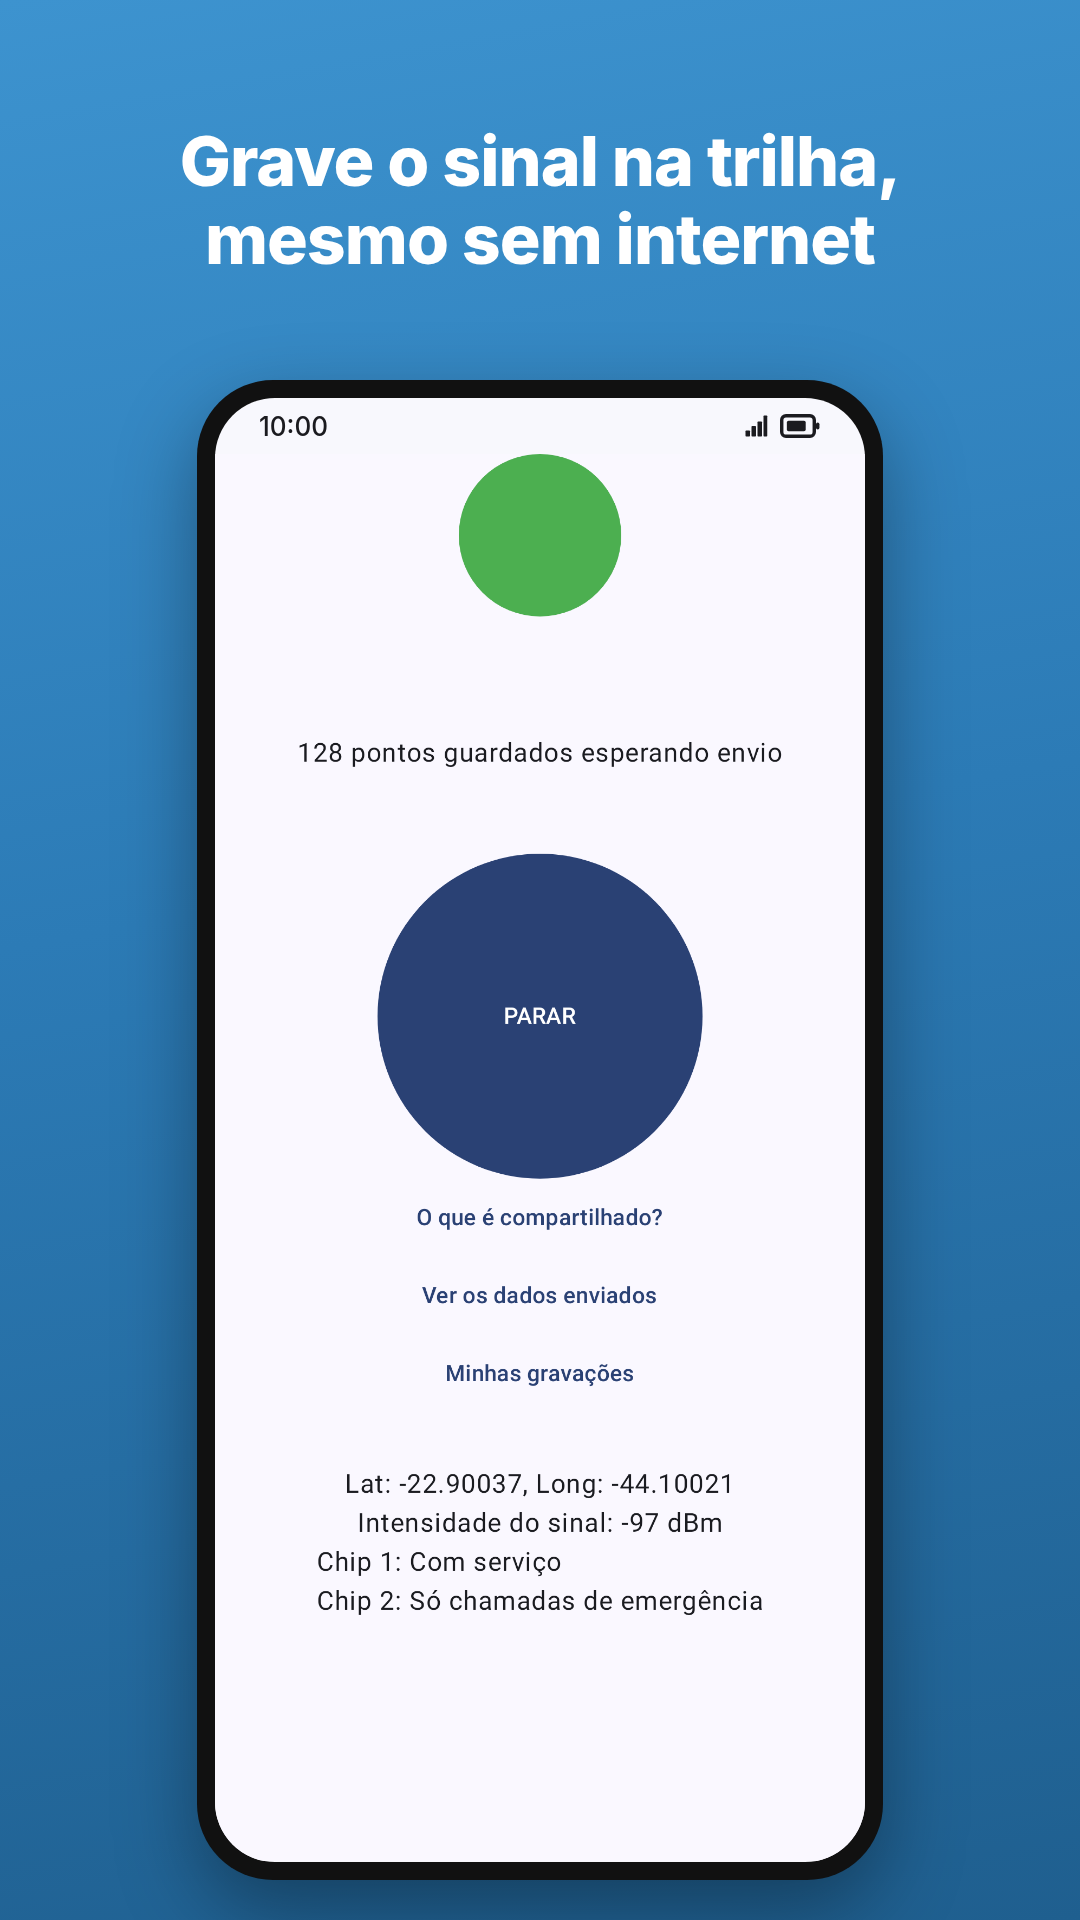
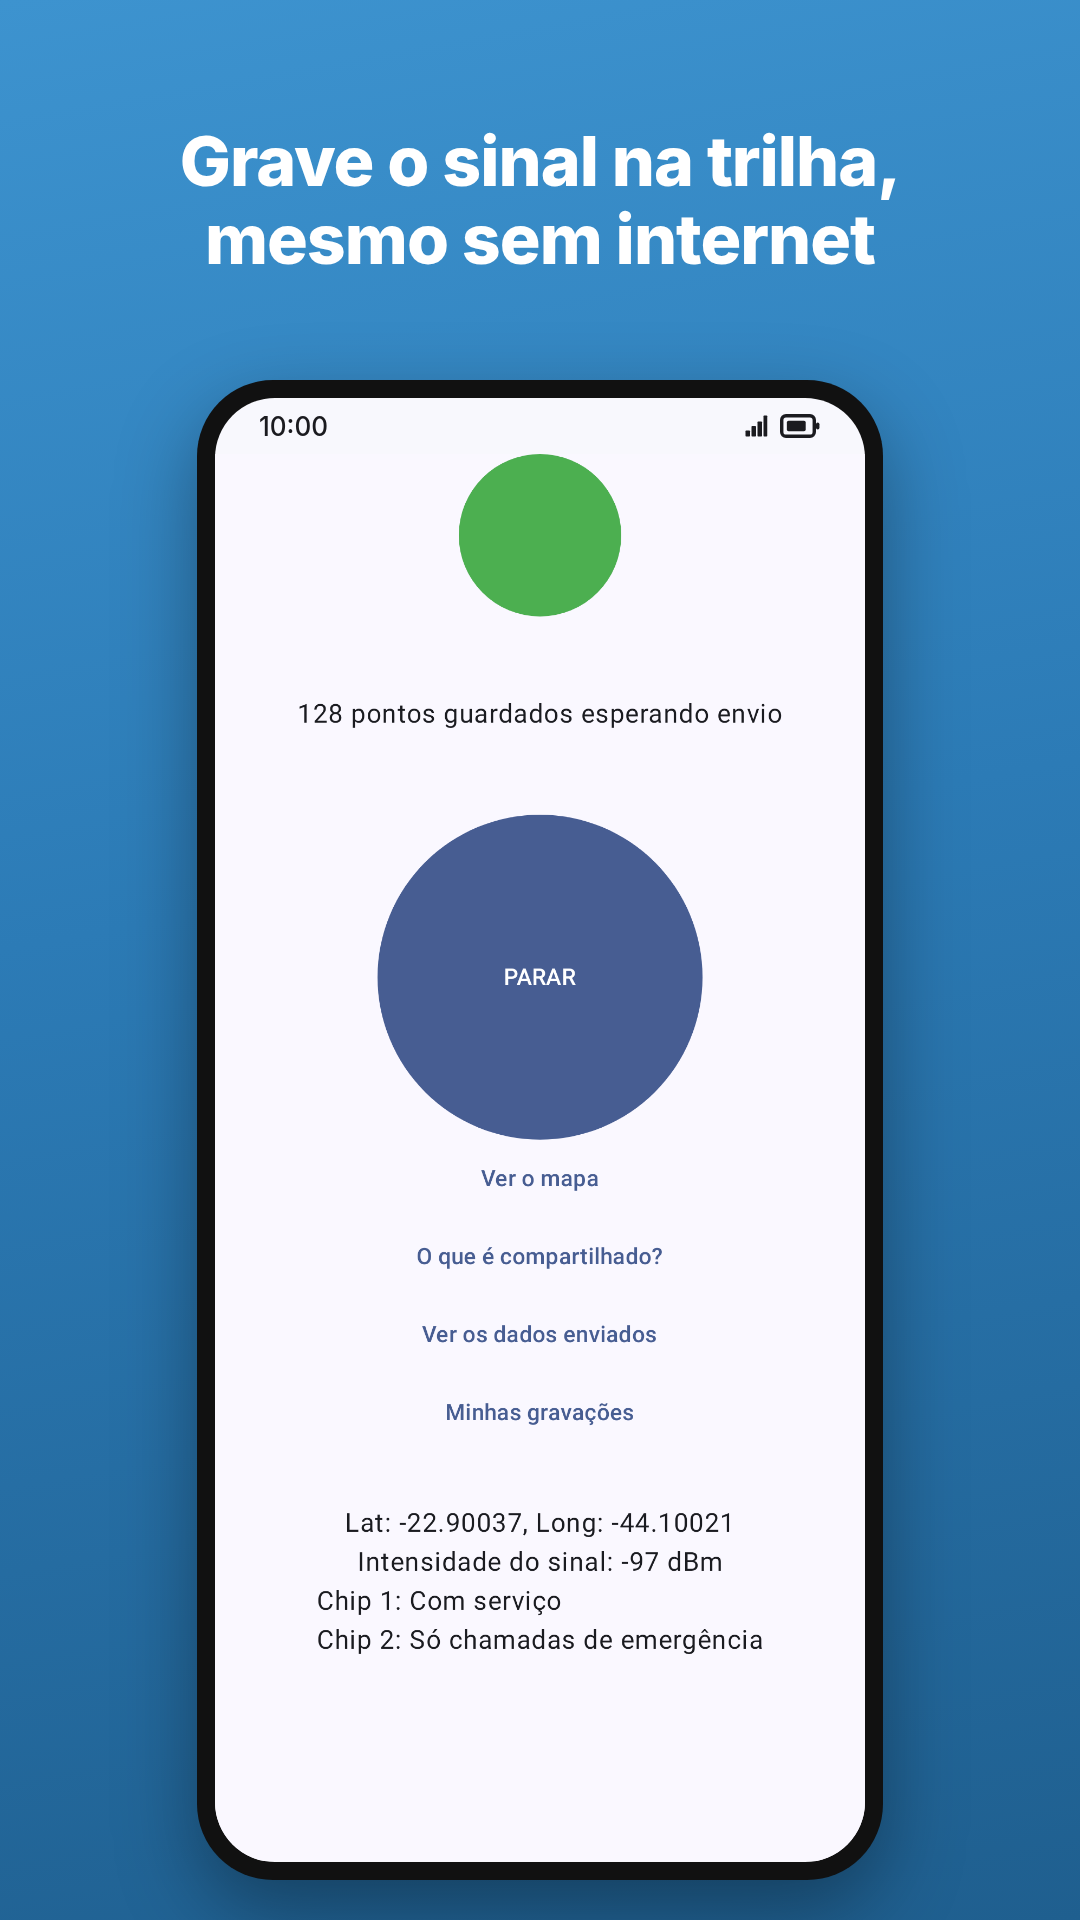
Add a See the map link to the main screen

Changed region(s): [[0.275, 0.375, 0.7028, 0.875], [0.3056, 0.8438, 0.3361, 0.875]]

diff --git a/app/src/main/java/dev/meuquerido/cellsignalmapper/LoggerButton.kt b/app/src/main/java/dev/meuquerido/cellsignalmapper/LoggerButton.kt
@@ -17,14 +17,18 @@ import androidx.compose.material3.TextButton
 import androidx.compose.runtime.Composable
 import androidx.compose.ui.Alignment
 import androidx.compose.ui.Modifier
+import androidx.compose.ui.platform.LocalUriHandler
 import androidx.compose.ui.res.pluralStringResource
 import androidx.compose.ui.res.stringResource
 import androidx.compose.ui.text.style.TextAlign
 import androidx.compose.ui.unit.dp
 
+/** The public map of the aggregated samples. */
+const val MAP_URL = "https://alexandreffaria.github.io/tem-sinal/"
+
 /**
- * The pending count, the LOG/STOP button, a dismissible [hint] below it, links that call
- * [onShowSharing], [onShowDataSent] and [onShowRecordings], and the location and signal lines:
+ * The pending count, the LOG/STOP button, a dismissible [hint] below it, a link that opens
+ * [MAP_URL] in the browser, links that call [onShowSharing], [onShowDataSent] and [onShowRecordings], and the location and signal lines:
  * stacked, or with the lines beside the button when [sideBySide]. Either way the content scrolls when the window is too
  * short for it; when it fits, it stays centred because the scroll keeps the filled
  * height as its minimum.
@@ -117,6 +121,17 @@ private fun LoggingControls(
         TextButton(onClick = onDismissHint) {
             Text(stringResource(R.string.dismiss))
         }
+    }
+    val uriHandler = LocalUriHandler.current
+    TextButton(onClick = {
+        // Throws IllegalArgumentException when no app on the phone can open a web page;
+        // the tap then does nothing.
+        try {
+            uriHandler.openUri(MAP_URL)
+        } catch (_: IllegalArgumentException) {
+        }
+    }) {
+        Text(stringResource(R.string.see_map))
     }
     TextButton(onClick = onShowSharing) {
         Text(stringResource(R.string.what_is_shared))
